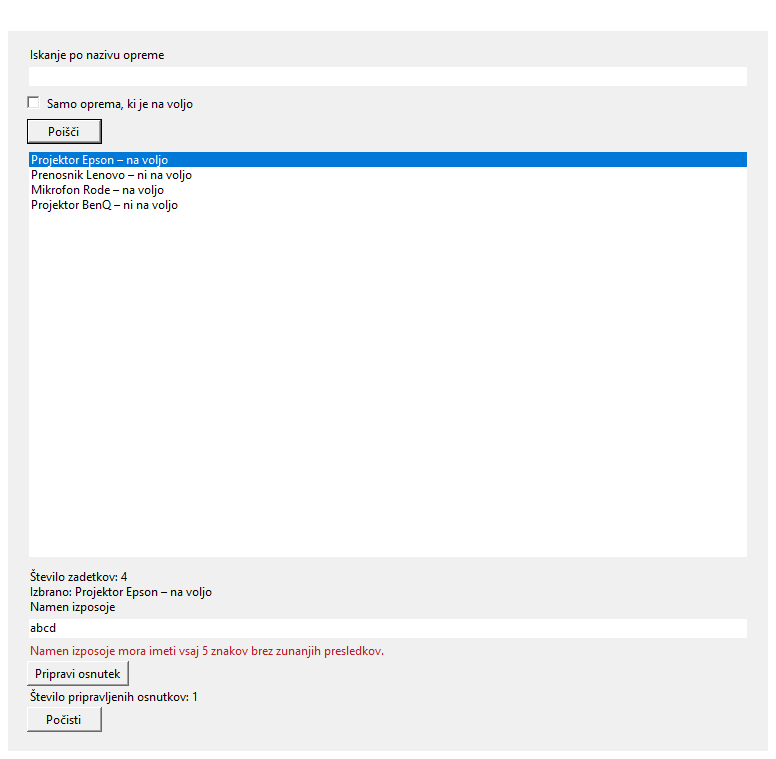
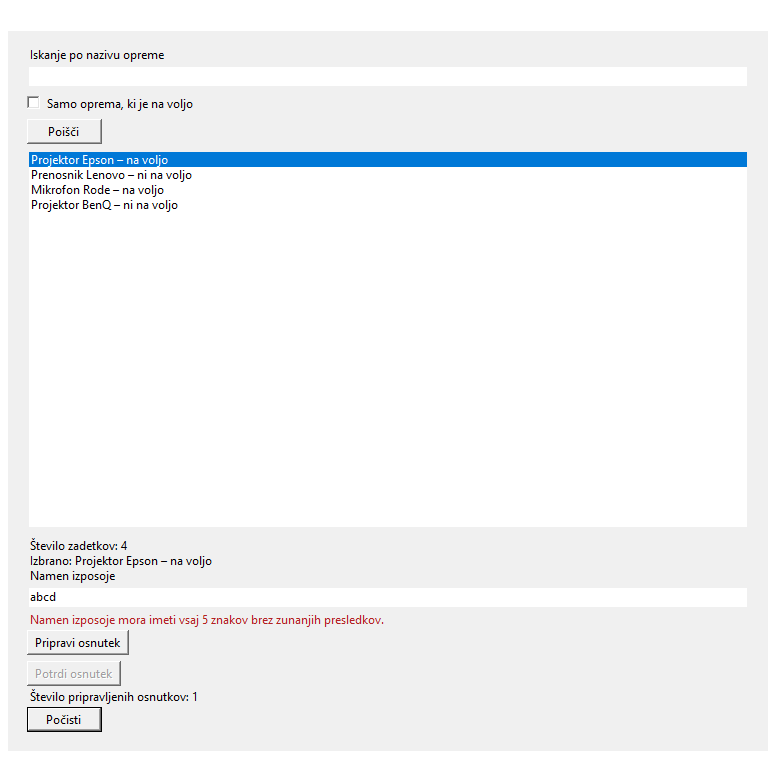
Vaja002: dokumentiraj potrditev in osvezi dokaze preizkusov

diff --git a/Vaja002/dokumentacija.md b/Vaja002/dokumentacija.md
@@ -12,7 +12,7 @@ dotnet build .\Vaja002\DogodkiOprema.csproj
 dotnet run --project .\Vaja002\DogodkiOprema.csproj
 ```
 
-Program ničesar ne shranjuje. Osnutek ne rezervira opreme in ne spreminja njene razpoložljivosti.
+Program ničesar ne shranjuje. Tudi potrjeni osnutek ne rezervira opreme in ne spreminja njene razpoložljivosti.
 
 ## 2. Začetni primer
 
@@ -34,7 +34,7 @@ Pot iskanja: Poišči → Click → PoisciKlik → OsveziSeznam → Katalog.Pois
 
 ## 3. Dopolnitev
 
-Prevzeti so Program, podatki in iskalna logika Kataloga ter nastavitve projekta. V Katalogu so zdaj tipi zapisani izrecno, logika pa je enaka. V oknu so dodani namen, napaka, gumb Pripravi osnutek, povzetek, števec, zadnji osnutek in Počisti. Postavitev uporablja 15 vrstic TableLayoutPanel, seznam pa porabi preostali prostor. Gradniki imajo določene TabIndex in Name. Nov je `OsnutekEventArgs.cs`.
+Prevzeti so Program, podatki in iskalna logika Kataloga ter nastavitve projekta. V Katalogu so zdaj tipi zapisani izrecno, logika pa je enaka. V oknu so dodani namen, napaka, gumb Pripravi osnutek, povzetek, Potrdi osnutek, oznaka potrditve, števec, zadnji osnutek in Počisti. Postavitev uporablja 17 vrstic TableLayoutPanel, seznam pa porabi preostali prostor. Gradniki imajo določene TabIndex in Name. Nov je `OsnutekEventArgs.cs`.
 
 ### Bolj običajen zapis C#
 
@@ -55,9 +55,15 @@ Registracija, sprožitev in izvedba obdelovalnika so ločeni koraki. Neposreden 
 
 Počisti izprazni namen, odstrani izbor, napake in prikaza ter ponastavi števec na 0. Iskalnega pogoja in filtra ne spreminja. Uspešnega dogodka ne sproži.
 
+### Potrditev osnutka
+
+Gumb `btnPotrdi` je sprva onemogočen. Uspešna priprava ga omogoči. Klik sproži `PotrdiKlik`, ki pokaže »Osnutek je potrjen.« in opozorilo, da to ni rezervacija ali trajno shranjevanje, nato gumb onemogoči. Isti osnutek zato ni mogoče potrditi dvakrat. Potrditev ne sproži dogodka `OsnutekPripravljen` in ne poveča števca priprav.
+
+Metoda `SkrijPovzetek` odstrani tudi oznako potrditve in onemogoči gumb. Uporablja se pri spremembi namena, izbora ali iskanja, osvežitvi seznama, filtru, novi pripravi in čiščenju. Nova veljavna priprava omogoči novo potrditev. Gre za dodaten prikaz zaključka postopka, ne za shranjevanje dejanske izposoje.
+
 ## 4. Preizkusi
 
-Program je preverjen v pravem WinForms oknu na Windows z .NET 8.0.33 x64; gradnja za net8.0-windows je uspela brez napak in opozoril. Dopolnitev je prestala 31 preverjanj. Rezultati so v `rezultati-preizkusov.json`; začetni preizkusi izhodišča so v `zacetni-preizkusi.json`. Preverjanja so avtomatizirana: preverjevalnik je uporabil prave gradnike, PerformClick, spremembe besedila, izbora in Paste.
+Končna dopolnitev s potrditvijo je preverjena v pravem WinForms oknu na Windows z .NET 8.0.22 x64; gradnja za net8.0-windows je uspela. Dopolnitev je prestala 45 preverjanj: vseh 31 obstoječih in 14 novih. Rezultati so v `rezultati-preizkusov.json`; začetni preizkusi izhodišča so v `zacetni-preizkusi.json`. Preverjanja so avtomatizirana: preverjevalnik je uporabil prave gradnike, PerformClick, spremembe besedila, izbora in Paste.
 
 ### Začetni primer – 10 uspešnih / 0 neuspešnih
 
@@ -110,13 +116,19 @@ Program je preverjen v pravem WinForms oknu na Windows z .NET 8.0.33 x64; gradnj
 | Zelo dolg namen | Veljaven namen ostane berljiv; brez prekrivanja vrstic. | Veljaven namen ostane berljiv; brez prekrivanja vrstic. | Uspešno |
 | Novo okno po zaprtju | Števec0, namen prazen in povzetek skrit. | Števec0, namen prazen in povzetek skrit. | Uspešno |
 
-### Dejanska izrisa na Windows
+### Dodatnih 14 preverjanj potrditve
+
+Uspešno so bili preverjeni: začetna onemogočena potrditev po čiščenju, klik brez osnutka, neveljaven namen, veljavna priprava in potrditev brez spremembe števca ali dogodka, ponovni klik, razveljavitev po spremembi namena, izbora, tipkanju iskanja, kliku Poišči in spremembi filtra, čiščenje po potrditvi, nova priprava po potrditvi, dostop do gumba s Tab ter postavitev potrjenega osnutka v najmanjšem in večjem oknu. Pri vseh primerih sta pričakovano in dejansko stanje skladna; podrobni vhodi in rezultati so v JSON-u.
+
+### Dejanski izrisi na Windows
+
+![Potrjen osnutek v pravem WinForms oknu](slike/okno-potrjeno.png)
 
 ![Uspešna priprava v pravem WinForms oknu](slike/okno-uspeh.png)
 
 ![Napaka pri namenu abcd](slike/okno-napaka.png)
 
-To sta izrisa gradnikov z `DrawToBitmap`, ne fotografiji aktivnega uporabniškega namizja in ne dokaz ustavljenega izvajanja.
+To so izrisi gradnikov z `DrawToBitmap`, ne fotografije aktivnega uporabniškega namizja in ne dokaz ustavljenega izvajanja.
 
 ## 5. Razhroščevanje – dejanske ustavitve in slike
 
@@ -129,7 +141,7 @@ Dokazi so zajeti nad pravim Windows procesom. Slike in številke vrstic veljajo 
 ![Dejanska ustavitev pri preverjanju namena](slike/01-validacija.png)
 
 - Vhod: preverjevalnik v pravo polje `txtNamen` nastavi `abcd`; sproži se `TextChanged`, nato `NamenSpremenjen` in `PreveriNamen`.
-- Ustavitev: `GlavnoOkno.cs:201`, tik pred preverjanjem `if (dolzina < 5)`.
+- Ustavitev: `GlavnoOkno.cs:222`, tik pred preverjanjem `if (dolzina < 5)`.
 - Opazovane vrednosti: `namen = "abcd"`, `ociscenNamen = "abcd"`, `dolzina = 4`. V skladu klicev je viden `NamenSpremenjen`.
 - Naslednji korak preide v vejo napake; metoda vrne opozorilo in obdelovalnik ga prikaže. Tak vnos ne omogoča uspešne priprave osnutka.
 - Ponovljen robni preizkus z `abcde` je v razhroščevalniku pokazal dolžino 5; ta vnos je veljaven. Zunanje presledke odstrani `Trim()`, notranji presledki pa ostanejo del besedila.
@@ -139,16 +151,16 @@ Dokazi so zajeti nad pravim Windows procesom. Slike in številke vrstic veljajo 
 ![Dejanska ustavitev v obdelovalniku lastnega dogodka](slike/02-lastni-dogodek.png)
 
 - Vhod: izbran Projektor Epson in namen `  Predavanje  `; preverjevalnik sproži pravi gumb z `PerformClick()`.
-- Ustavitev: `GlavnoOkno.cs:269`, pred `steviloOsnutkov++` v `ObOsnutkuPripravljen`.
+- Ustavitev: `GlavnoOkno.cs:306`, pred `steviloOsnutkov++` v `ObOsnutkuPripravljen`.
 - Podatki: `sender` je `GlavnoOkno`, `e.Oprema = "Projektor Epson – na voljo"`, `e.Namen = "Predavanje"`, `steviloOsnutkov = 0`.
-- Sklad klicev vsebuje `ObOsnutkuPripravljen → PripraviKlik → Button.OnClick → Button.PerformClick → Preverjanje.DebugPot`. Registracija obdelovalnika je v konstruktorju na vrstici 190, sprožitev dogodka pa na vrstici 263.
+- Sklad klicev vsebuje `ObOsnutkuPripravljen → PripraviKlik → Button.OnClick → Button.PerformClick → Preverjanje.DebugPot`. Registracija obdelovalnika je v konstruktorju na vrstici 211, sprožitev dogodka pa na vrstici 288.
 - Naslednji korak izvede povečanje števca. Posodobitev napisa je šele naslednja vrstica, zato številska spremenljivka in napis med korakanjem nista nujno že usklajena.
 
 ### Dodatna slika: po koraku je števec 1
 
 ![Dejanska ustavitev po povečanju števca](slike/03-po-koraku.png)
 
-Po ukazu `next` (enakovredno koraku čez vrstico oziroma F10) je izvajanje ustavljeno na vrstici 270 in `steviloOsnutkov = 1`. To potrdi spremembo 0 → 1. Naslednji korak posodobi besedilo `lblStevec`. Podatki so tudi v `razhroscevanje.json`.
+Po ukazu `next` (enakovredno koraku čez vrstico oziroma F10) je izvajanje ustavljeno na vrstici 307 in `steviloOsnutkov = 1`. To potrdi spremembo 0 → 1. Naslednji korak posodobi besedilo `lblStevec`. Podatki so tudi v `razhroscevanje.json`.
 
 ### Postopek razhroščevanja v Visual Studiu
 

diff --git a/Vaja002/README.md b/Vaja002/README.md
@@ -1,6 +1,6 @@
 # Vaja002 – izposoja opreme
 
-Windows Forms aplikacija v C# za iskanje opreme in pripravo osnutka izposoje. Temelji na šolskem začetnem primeru.
+Windows Forms aplikacija v C# za iskanje opreme, pripravo in potrditev osnutka izposoje. Temelji na šolskem začetnem primeru.
 
 ## Zagon
 
@@ -16,8 +16,13 @@ Pogoji so zapisani z `if/else`, tipi z `new TextBox()` oziroma ustreznim tipom, 
 - Preverjanje med urejanjem in ob pripravi osnutka.
 - Lasten dogodek `OsnutekPripravljen` s podatki opreme in namena.
 - Števec uspešnih priprav, povzetek in gumb Počisti.
+- Gumb Potrdi osnutek, ki je omogočen šele po uspešni pripravi. Potrditev ne poveča števca pripravljenih osnutkov.
 
-Osnutek ni prava rezervacija in se ne shrani po zaprtju aplikacije.
+## Uporaba
+
+Izberite opremo, vnesite namen in kliknite Pripravi osnutek. Preberite povzetek ter kliknite Potrdi osnutek. Pojavi se potrditev, gumb pa se onemogoči. Sprememba namena, izbora, iskanja ali filtra odstrani stari osnutek in potrditev. Za nov postopek uporabite Počisti.
+
+Tudi potrjeni osnutek ni prava rezervacija in se ne shrani po zaprtju aplikacije. Razpoložljivost opreme ostane nespremenjena.
 
 [Dokumentacija, preizkusi in razhroščevanje](dokumentacija.md).
 
